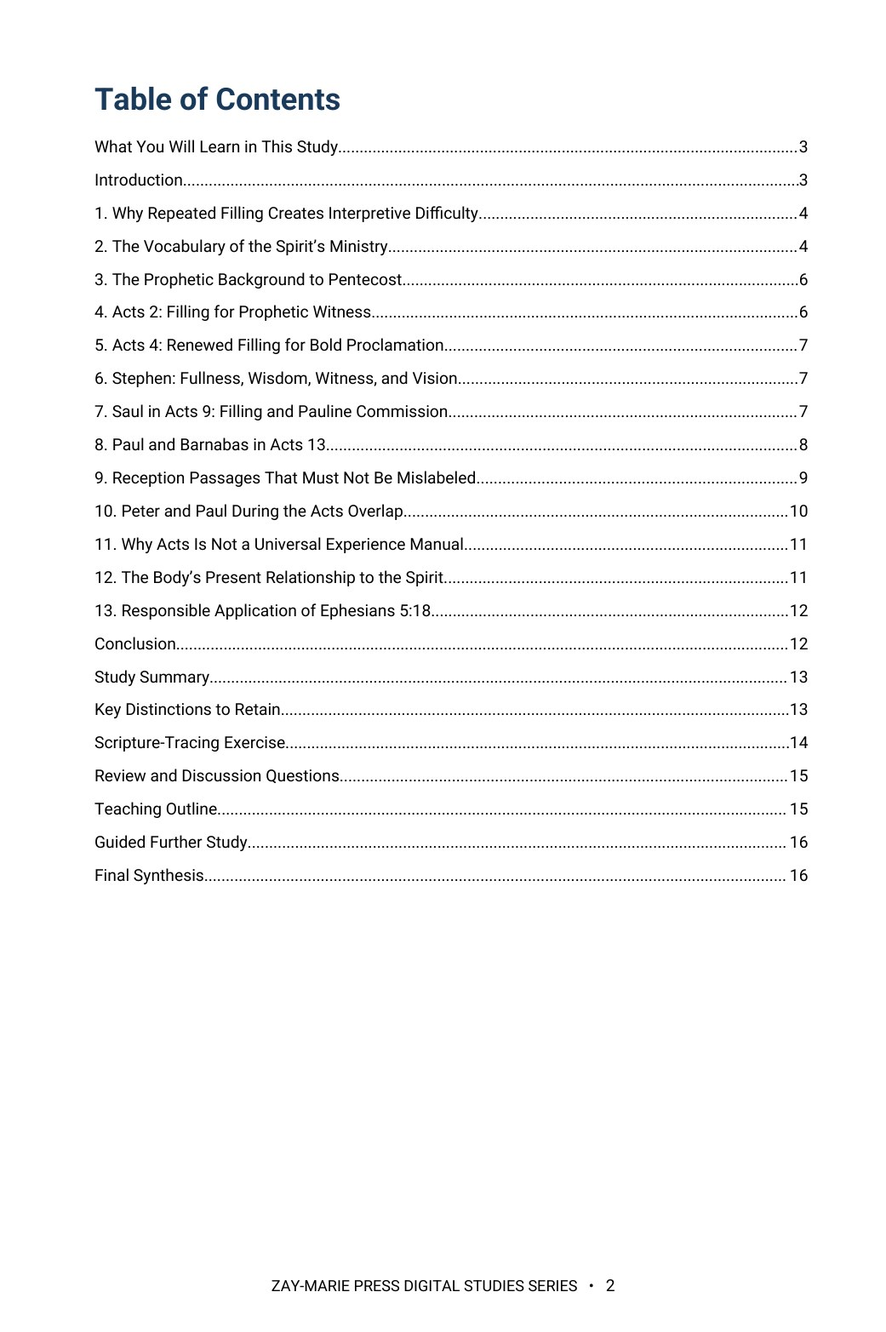
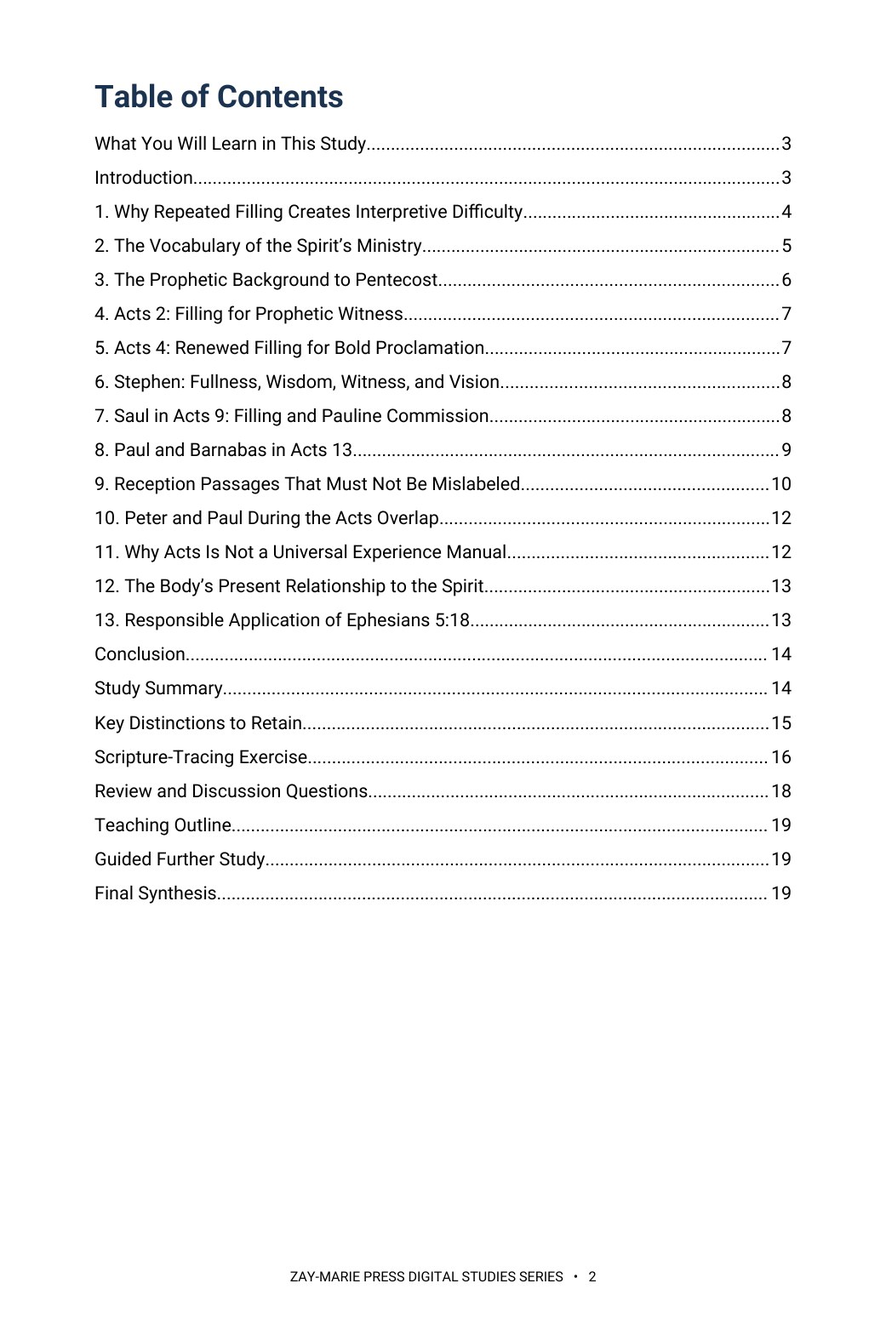
Study 34: page count 20, rebuilt preview pages and trackers for Roboto 10 pt build on current page
Claude-Session: https://claude.ai/code/session_01HC7bs9KYP2scp4hCL6DkTp

diff --git a/study-34-filled-again.html b/study-34-filled-again.html
@@ -3,13 +3,13 @@
 <html lang="en"><head><meta charset="utf-8"><meta name="viewport" content="width=device-width,initial-scale=1"><title>Filled Again | Zay-Marie Press</title><meta name="description" content="Why Acts records believers and apostolic servants being filled with the Holy Spirit more than once, with careful distinctions among filling, reception, indwelling, sealing, identification, and manifestation."><link rel="stylesheet" href="styles.css?v=20260921-4"><link rel="icon" type="image/png" href="assets/zay-marie-press-favicon.png"><style>
 .study-detail-page{background:#fff;color:#252525}.detail-hero{background:linear-gradient(135deg,#f8f5ec,#e3ece2);padding:58px 0}.detail-hero-grid{display:grid;grid-template-columns:minmax(250px,.72fr) minmax(0,1.28fr);gap:58px;align-items:center}.detail-cover{max-width:390px;margin:auto}.detail-cover img{display:block;width:100%;height:auto;box-shadow:0 14px 36px rgba(8,45,69,.18)}.detail-hero h1{font-size:clamp(2.7rem,5vw,4.7rem);line-height:1.02;margin:8px 0 10px;color:#143823}.detail-subtitle{font-family:Georgia,serif;font-size:1.35rem;font-weight:700;color:#082d45;margin:0 0 7px}.detail-kicker{font-family:Georgia,serif;font-style:italic;font-size:1.05rem;color:#4a4a44;margin:0 0 22px}.detail-copy{font-size:1.08rem;line-height:1.65;max-width:760px}.detail-buyline{display:flex;align-items:center;gap:18px;flex-wrap:wrap;margin-top:25px}.detail-price{font-family:Georgia,serif;font-size:2rem;font-weight:700;color:#143823}.detail-format,.preview-card .page-no{font-family:Arial,sans-serif;font-size:.76rem;font-weight:700;letter-spacing:.1em;text-transform:uppercase;color:#176b3a}.detail-button{display:inline-block;background:#176b3a;color:#fff;padding:13px 22px;font-family:Arial,sans-serif;font-size:.8rem;font-weight:700;letter-spacing:.07em;text-transform:uppercase}.detail-button.pending{opacity:.72;cursor:default}.detail-section{padding:66px 0}.detail-section.soft{background:#f6f7f2}.detail-section.cream{background:#faf8f2}.detail-section h2{color:#143823;margin:6px 0 18px;font-size:clamp(2rem,3.4vw,3rem)}.detail-section .lead{max-width:920px;font-size:1.1rem;line-height:1.62}.study-distinction{max-width:920px;margin-top:28px;margin-bottom:28px;padding:26px 28px;background:#fff;border:1px solid #d8d1bf;border-left:4px solid #b8871c}.study-distinction h3{margin:0 0 10px;color:#143823}.study-distinction p{margin:0 0 14px;line-height:1.62}.study-distinction a{font-family:Arial,sans-serif;font-weight:700;color:#176b3a;text-decoration:none}.study-points{display:grid;grid-template-columns:repeat(3,1fr);gap:18px;margin-top:28px;margin-bottom:28px}.study-point,.scripture-card,.preview-card,.include-item{background:#fff;border:1px solid var(--line);text-align:left}.study-point{border-top:3px solid #176b3a;padding:22px}.study-point h3{color:#143823;margin:0 0 8px;font-size:1.2rem}.study-point p,.scripture-card p,.preview-card p,.include-item p{margin:0;line-height:1.55}.scripture-grid{display:grid;grid-template-columns:repeat(4,1fr);gap:14px;margin-top:24px;margin-bottom:24px}.scripture-card{padding:22px 20px;color:#143823}.scripture-card h3{margin:0 0 9px;font-family:Georgia,serif;font-size:1rem;line-height:1.35}.scripture-card p{font-size:.94rem;color:#45453f}.excerpt{max-width:900px;margin:28px auto;border-left:4px solid #b8871c;padding:10px 0 10px 28px}.excerpt blockquote{font-family:Georgia,serif;font-size:clamp(1.45rem,2.5vw,2rem);line-height:1.45;color:#143823;margin:0 0 16px}.excerpt p{line-height:1.6;margin:0}.preview-grid{display:grid;grid-template-columns:repeat(2,1fr);gap:20px;margin-top:28px;margin-bottom:28px}.preview-card{padding:18px;min-height:210px;box-shadow:0 7px 20px rgba(20,40,25,.05)}.preview-image-link{display:block;margin:0 0 18px}.preview-image-link img{display:block;width:100%;height:auto;border:1px solid #d8d1bf;box-shadow:0 8px 22px rgba(20,40,25,.1);transition:transform .18s ease,box-shadow .18s ease}.preview-image-link:hover img{transform:translateY(-2px);box-shadow:0 11px 28px rgba(20,40,25,.16)}.preview-card h3{color:#143823;margin:8px 0 10px}.preview-instruction{margin:10px 0 0;font-family:Arial,sans-serif;font-size:.78rem;letter-spacing:.04em;color:#5b5b55}.includes-grid{display:grid;grid-template-columns:repeat(4,1fr);gap:14px;margin-top:26px}.include-item{padding:22px 20px;color:#143823}.include-item h3{margin:0 0 9px;font-family:Arial,sans-serif;font-size:.86rem;line-height:1.35;letter-spacing:.02em}.include-item p{font-size:.94rem;color:#45453f}.final-buy{background:#082d45;color:#fff;border-top:4px solid #b8871c;padding:42px 48px;display:grid;grid-template-columns:1fr auto;gap:36px;align-items:center}.final-buy .eyebrow,.final-buy h2,.final-buy .detail-price{color:#fff}.final-buy h2{margin:7px 0 6px}.final-buy p{margin:0}.final-offer{text-align:center}.back-link{display:inline-block;margin-top:18px;color:#143823;font-family:Arial,sans-serif;font-weight:700;text-decoration:none}.preview-lightbox{position:fixed;inset:0;z-index:10000;display:none;align-items:flex-start;justify-content:center;background:rgba(8,22,16,.88);padding:24px;overflow:auto}.preview-lightbox.open{display:flex}.preview-lightbox img{display:block;width:auto;height:auto;max-width:none;box-shadow:0 18px 55px rgba(0,0,0,.4);background:#fff}.preview-lightbox-close{position:fixed;top:18px;right:24px;z-index:10001;width:46px;height:46px;border:1px solid rgba(255,255,255,.65);border-radius:50%;background:rgba(0,0,0,.55);color:#fff;font:32px/1 Arial,sans-serif;cursor:pointer}@media(max-width:900px){.detail-hero-grid{grid-template-columns:1fr;gap:34px}.detail-cover{max-width:330px}.study-points{grid-template-columns:repeat(2,1fr)}.scripture-grid,.includes-grid{grid-template-columns:repeat(2,1fr)}.preview-grid,.final-buy{grid-template-columns:1fr}.final-offer{text-align:left}}@media(max-width:560px){.detail-hero{padding:42px 0}.detail-section{padding:50px 0}.study-points,.scripture-grid,.includes-grid{grid-template-columns:1fr}.final-buy{padding:32px 24px}.detail-buyline{align-items:flex-start;flex-direction:column;gap:8px}.preview-lightbox{padding:58px 10px 24px}.preview-lightbox img{width:100%;max-width:100%;height:auto}}</style></head><body class="study-detail-page">
 <header class="site-header"><div class="wrap nav"><a class="logo" href="index.html" aria-label="Zay-Marie Press home"><img src="assets/zay-marie-press-logo-hq.png" alt="Zay-Marie Press" width="420" height="238"></a><button class="menu-toggle" type="button" aria-expanded="false" aria-controls="primary-nav">MENU</button><nav aria-label="Primary navigation" class="primary-nav" id="primary-nav"><a href="index.html">HOME</a><a href="books.html">BOOKS</a><a href="series.html">SERIES</a><a class="active" aria-current="page" href="digital-studies.html">DIGITAL STUDIES</a><a href="biblical-hermeneutics-course.html">COURSE</a><a href="about.html">ABOUT</a><a href="resources.html">RESOURCES</a><a href="contact.html">CONTACT</a></nav></div></header><main>
-<section class="detail-hero"><div class="wrap detail-hero-grid"><div class="detail-cover"><picture><source srcset="assets/study-34-cover.webp" type="image/webp"><picture><source srcset="assets/study-34-cover.webp" type="image/webp"><img src="assets/study-34-cover.jpg" alt="Filled Again cover"></picture></picture></div><div><div class="eyebrow">STUDY 34 · DIGITAL STUDY</div><h1>Filled Again</h1><p class="detail-subtitle">Why the Holy Spirit Empowered God’s Servants Multiple Times in Acts</p><p class="detail-kicker">A passage-controlled study of filling, reception, indwelling, sealing, manifestation, and Spirit-enabled service</p><p class="detail-copy">Why does Acts record believers and apostolic servants being filled with the Holy Spirit more than once? The repeated language does not describe repeated salvation, repeated indwelling, or spiritual failure. It records renewed enablement for particular acts of witness, proclamation, courage, wisdom, judgment, and service.</p><p class="detail-copy">Each occurrence is interpreted according to its named recipients, immediate purpose, revelatory setting, and programmatic assignment. The study preserves the distinction between Peter’s prophetic commission and Paul’s Mystery apostleship during the Acts overlap.</p><div class="detail-buyline"><span class="detail-price">$5.99</span><span class="detail-format">Digital PDF · 16 Pages</span><span class="detail-button pending" aria-disabled="true">Checkout Coming Soon</span></div></div></div></section>
+<section class="detail-hero"><div class="wrap detail-hero-grid"><div class="detail-cover"><picture><source srcset="assets/study-34-cover.webp" type="image/webp"><picture><source srcset="assets/study-34-cover.webp" type="image/webp"><img src="assets/study-34-cover.jpg" alt="Filled Again cover"></picture></picture></div><div><div class="eyebrow">STUDY 34 · DIGITAL STUDY</div><h1>Filled Again</h1><p class="detail-subtitle">Why the Holy Spirit Empowered God’s Servants Multiple Times in Acts</p><p class="detail-kicker">A passage-controlled study of filling, reception, indwelling, sealing, manifestation, and Spirit-enabled service</p><p class="detail-copy">Why does Acts record believers and apostolic servants being filled with the Holy Spirit more than once? The repeated language does not describe repeated salvation, repeated indwelling, or spiritual failure. It records renewed enablement for particular acts of witness, proclamation, courage, wisdom, judgment, and service.</p><p class="detail-copy">Each occurrence is interpreted according to its named recipients, immediate purpose, revelatory setting, and programmatic assignment. The study preserves the distinction between Peter’s prophetic commission and Paul’s Mystery apostleship during the Acts overlap.</p><div class="detail-buyline"><span class="detail-price">$5.99</span><span class="detail-format">Digital PDF · 20 Pages</span><span class="detail-button pending" aria-disabled="true">Checkout Coming Soon</span></div></div></div></section>
 <section class="detail-section"><div class="wrap"><div class="eyebrow">ABOUT THIS STUDY</div><h2>Repeated Filling Is Renewed Enablement</h2><p class="lead">Acts 2 and Acts 4 give the clearest evidence: the same prophetic company is filled more than once, first at Pentecost and later in answer to prayer for boldness. Nothing in the second event suggests another salvation or another permanent indwelling. The Spirit renews enablement for the assignment immediately before them.</p><p class="lead">Other passages require different labels. Some describe an abiding characterization, some the reception or manifestation of the Spirit among distinct groups, and some a particular act of apostolic judgment or witness. Careful interpretation begins by refusing to call every Spirit-related event a filling.</p><p class="lead">This is not a study of Peter’s original Pentecost promise, which Study 20 reads in its own audience and setting, nor of the general test for whether an Acts event obligates the Body today, which Study 38 supplies, nor of the Body’s own settled indwelling by the Spirit, which Study 44 distinguishes from any repeated filling. Its task is narrower: to show, from Acts 2 and Acts 4 themselves, that a second filling of the same praying company renews enablement for an immediate assignment rather than repeating salvation or indwelling.</p><div class="study-distinction"><h3>How These Studies Relate</h3><p>Study 34 explains why apostles could be filled again in Acts 4 without losing and regaining the Spirit.</p><p><a href="study-20-understanding-acts-2-38.html">Study 20 — Understanding Acts 2:38</a> Read Peter’s earlier Pentecost promise and his audience first; this distinguishes initial Spirit reception from the later renewed enablement recorded in Acts 4.</p><p><a href="study-38-why-acts-is-not-a-universal-experience-manual.html">Study 38 — Why Acts Is Not a Universal Experience Manual</a> Apply the Acts-reading test to repeated filling; it clarifies what a historical event teaches without making each occurrence a universal required sequence.</p><p><a href="study-44-walking-in-the-spirit.html">Study 44 — Walking in the Spirit</a> Distinguish these renewed, repeated Acts-era fillings from the Body's settled, once-for-all indwelling ministry of the Spirit that this study examines.</p><p class="connection-guide-link"><a href="study-connections.html#study-34">Explore the full connection guide for Study 34 →</a></p></div></div></section>
 <section class="detail-section soft"><div class="wrap"><div class="eyebrow">WHAT YOU’LL STUDY</div><h2>Distinguish the Spirit’s Ministries Before Applying Them</h2><div class="study-points"><div class="study-point"><h3>Prophetic Promise</h3><p>Trace the promised outpouring behind Pentecost without importing later Pauline doctrine into the prophetic setting.</p></div><div class="study-point"><h3>Receiving and Filling</h3><p>Separate receiving the Spirit from renewed enablement for a named act of witness or service.</p></div><div class="study-point"><h3>Fullness as Character</h3><p>Recognize when “full of the Holy Spirit” describes an abiding qualification or spiritual characterization.</p></div><div class="study-point"><h3>Identification and Sealing</h3><p>Distinguish Spirit baptism, indwelling, and Pauline sealing from narrative manifestations in Acts.</p></div><div class="study-point"><h3>Signs During the Overlap</h3><p>Place tongues, visions, and apostolic signs within their immediate setting and assigned apostolic line.</p></div><div class="study-point"><h3>Present Application</h3><p>Trace how Ephesians 1:13–14, 4:30, and 5:18 state the Body’s standing and the command to be filled, and how the two relate.</p></div></div></div></section>
 <section class="detail-section cream"><div class="wrap"><div class="eyebrow">KEY SCRIPTURES</div><h2>Follow Each Passage by Recipient, Purpose, and Setting</h2><div class="scripture-grid"><div class="scripture-card"><h3>Acts 2:4</h3><p>The prophetic company is filled and speaks in other tongues at Pentecost.</p></div><div class="scripture-card"><h3>Acts 4:8, 31</h3><p>Peter speaks before the rulers, and the gathered company receives renewed boldness.</p></div><div class="scripture-card"><h3>Acts 6:3, 5; 7:55</h3><p>Stephen’s fullness marks qualification, wisdom, witness, and vision.</p></div><div class="scripture-card"><h3>Acts 9:17</h3><p>Saul is filled in connection with his healing and Pauline commission.</p></div><div class="scripture-card"><h3>Acts 13:9</h3><p>Paul confronts Elymas under Spirit-enabled apostolic judgment.</p></div><div class="scripture-card"><h3>Acts 13:52</h3><p>The disciples are filled with joy and with the Holy Spirit amid opposition.</p></div><div class="scripture-card"><h3>Acts 8, 10, 19</h3><p>Reception and manifestation passages involving distinct groups and settings.</p></div><div class="scripture-card"><h3>Ephesians 5:18</h3><p>The Body is commanded to pursue an ongoing Spirit-governed walk.</p></div></div></div></section>
 <section class="detail-section"><div class="wrap"><div class="eyebrow">FROM THE STUDY</div><h2>The Text Must Name the Spirit’s Ministry</h2><div class="excerpt"><blockquote>“Repeated filling in Acts is renewed enablement for a particular assignment—not repeated salvation, indwelling, or sealing.”</blockquote><p>Recipients, immediate purpose, revelatory setting, and programmatic assignment keep narrative description from being turned into a universal experience manual.</p></div></div></section>
-<section class="detail-section soft"><div class="wrap"><div class="eyebrow">A LOOK INSIDE</div><h2>Preview the Study Before You Purchase</h2><p class="preview-instruction">Click any page to enlarge it for reading.</p><div class="preview-grid"><div class="preview-card"><a class="preview-image-link" data-preview-lightbox href="assets/study-34-page-2.jpg"><img src="assets/study-34-page-2.jpg" alt="Study 34 interior preview — page 2, table of contents"></a><div class="page-no">Page 2</div><h3>Table of Contents</h3><p>See how the study moves from the interpretive problem through each Acts passage to the Body’s present standing.</p></div><div class="preview-card"><a class="preview-image-link" data-preview-lightbox href="assets/study-34-page-3.jpg"><img src="assets/study-34-page-3.jpg" alt="Study 34 interior preview — page 3, What You Will Learn and Study Goal"></a><div class="page-no">Page 3</div><h3>What You Will Learn</h3><p>Begin with the skills you will practice in distinguishing each Spirit-related event by its own wording.</p></div><div class="preview-card"><a class="preview-image-link" data-preview-lightbox href="assets/study-34-page-5.jpg"><img src="assets/study-34-page-5.jpg" alt="Study 34 interior preview — page 5, the vocabulary of the Spirit’s ministry"></a><div class="page-no">Page 5</div><h3>The Vocabulary of the Spirit’s Ministry</h3><p>Set the terms side by side, each with the control that keeps it from being confused with the others.</p></div></div></div></section>
-<section class="detail-section"><div class="wrap"><div class="eyebrow">WHAT’S INCLUDED</div><h2>A Focused Study Built for<br>Doctrinal Precision and Responsible Application</h2><div class="includes-grid"><div class="include-item"><h3>16-Page Biblical Study</h3><p>A substantive treatment of repeated filling and the Spirit’s distinct ministries in Acts.</p></div><div class="include-item"><h3>Thirteen Teaching Sections</h3><p>Move from vocabulary and prophetic background through the Acts overlap to present application.</p></div><div class="include-item"><h3>Passage Classification</h3><p>Identify momentary filling, abiding characterization, reception, manifestation, and other Spirit ministries.</p></div><div class="include-item"><h3>High-Contrast Tables</h3><p>Compare recipients, settings, purposes, apostolic lines, and warranted conclusions clearly.</p></div><div class="include-item"><h3>Scripture-Tracing Exercise</h3><p>Work through the principal filling, reception, manifestation, sealing, and application passages.</p></div><div class="include-item"><h3>Review Questions</h3><p>Test your ability to distinguish narrative events from present governing doctrine.</p></div><div class="include-item"><h3>Teaching Outline</h3><p>Use a ready framework for teaching repeated filling without collapsing distinct ministries.</p></div><div class="include-item"><h3>Guided Further Study</h3><p>Grouped passages support continued study of prophecy, the overlap, and Pauline doctrine.</p></div></div></div></section>
-<section class="detail-section cream"><div class="wrap"><div class="final-buy"><div><div class="eyebrow">STUDY 34 · DIGITAL STUDY</div><h2>Filled Again</h2><p>Digital PDF · 16 Pages · For personal use</p></div><div class="final-offer"><div class="detail-price">$5.99</div><span class="detail-button pending" aria-disabled="true">Checkout Coming Soon</span></div></div><a class="back-link" href="digital-studies.html">← Back to All Digital Studies</a></div></section><section class="study-method-course-bridge"><div class="wrap"><div class="study-method-course-panel"><div><div class="eyebrow">BUILD THE INTERPRETIVE METHOD</div><h2>Want More Than a Focused Study?</h2><p>Digital Studies examine particular biblical subjects and difficult passages. The 40-lesson Biblical Hermeneutics course teaches a complete, repeatable method for establishing meaning in context, determining proper assignment, and making responsible application.</p></div><a class="btn btn-primary" href="biblical-hermeneutics-course.html">BIBLICAL HERMENEUTICS COURSE</a></div></div></section></main>
+<section class="detail-section soft"><div class="wrap"><div class="eyebrow">A LOOK INSIDE</div><h2>Preview the Study Before You Purchase</h2><p class="preview-instruction">Click any page to enlarge it for reading.</p><div class="preview-grid"><div class="preview-card"><a class="preview-image-link" data-preview-lightbox href="assets/study-34-page-2.jpg"><img src="assets/study-34-page-2.jpg" alt="Study 34 interior preview — page 2, table of contents"></a><div class="page-no">Page 2</div><h3>Table of Contents</h3><p>See how the study moves from the interpretive problem through each Acts passage to the Body’s present standing.</p></div><div class="preview-card"><a class="preview-image-link" data-preview-lightbox href="assets/study-34-page-3.jpg"><img src="assets/study-34-page-3.jpg" alt="Study 34 interior preview — page 3, What You Will Learn and Study Goal"></a><div class="page-no">Page 3</div><h3>What You Will Learn</h3><p>Begin with the skills you will practice in distinguishing each Spirit-related event by its own wording.</p></div><div class="preview-card"><a class="preview-image-link" data-preview-lightbox href="assets/study-34-page-6.jpg"><img src="assets/study-34-page-6.jpg" alt="Study 34 interior preview — page 6, the vocabulary of the Spirit’s ministry"></a><div class="page-no">Page 6</div><h3>The Vocabulary of the Spirit’s Ministry</h3><p>Set the terms side by side, each with the control that keeps it from being confused with the others.</p></div></div></div></section>
+<section class="detail-section"><div class="wrap"><div class="eyebrow">WHAT’S INCLUDED</div><h2>A Focused Study Built for<br>Doctrinal Precision and Responsible Application</h2><div class="includes-grid"><div class="include-item"><h3>20-Page Biblical Study</h3><p>A substantive treatment of repeated filling and the Spirit’s distinct ministries in Acts.</p></div><div class="include-item"><h3>Thirteen Teaching Sections</h3><p>Move from vocabulary and prophetic background through the Acts overlap to present application.</p></div><div class="include-item"><h3>Passage Classification</h3><p>Identify momentary filling, abiding characterization, reception, manifestation, and other Spirit ministries.</p></div><div class="include-item"><h3>High-Contrast Tables</h3><p>Compare recipients, settings, purposes, apostolic lines, and warranted conclusions clearly.</p></div><div class="include-item"><h3>Scripture-Tracing Exercise</h3><p>Work through the principal filling, reception, manifestation, sealing, and application passages.</p></div><div class="include-item"><h3>Review Questions</h3><p>Test your ability to distinguish narrative events from present governing doctrine.</p></div><div class="include-item"><h3>Teaching Outline</h3><p>Use a ready framework for teaching repeated filling without collapsing distinct ministries.</p></div><div class="include-item"><h3>Guided Further Study</h3><p>Grouped passages support continued study of prophecy, the overlap, and Pauline doctrine.</p></div></div></div></section>
+<section class="detail-section cream"><div class="wrap"><div class="final-buy"><div><div class="eyebrow">STUDY 34 · DIGITAL STUDY</div><h2>Filled Again</h2><p>Digital PDF · 20 Pages · For personal use</p></div><div class="final-offer"><div class="detail-price">$5.99</div><span class="detail-button pending" aria-disabled="true">Checkout Coming Soon</span></div></div><a class="back-link" href="digital-studies.html">← Back to All Digital Studies</a></div></section><section class="study-method-course-bridge"><div class="wrap"><div class="study-method-course-panel"><div><div class="eyebrow">BUILD THE INTERPRETIVE METHOD</div><h2>Want More Than a Focused Study?</h2><p>Digital Studies examine particular biblical subjects and difficult passages. The 40-lesson Biblical Hermeneutics course teaches a complete, repeatable method for establishing meaning in context, determining proper assignment, and making responsible application.</p></div><a class="btn btn-primary" href="biblical-hermeneutics-course.html">BIBLICAL HERMENEUTICS COURSE</a></div></div></section></main>
 <div class="preview-lightbox" id="preview-lightbox" role="dialog" aria-modal="true" aria-label="Expanded study preview"><button class="preview-lightbox-close" type="button" aria-label="Close preview">×</button><img id="preview-lightbox-image" alt=""></div><footer class="site-footer"><div class="wrap footer-grid"><div class="footer-about"><h3>Zay-Marie Press</h3><p class="footer-tagline"><em>Where the Bible Means What It Says.</em></p><p>Zay-Marie Press is a Christian theological publisher dedicated to producing doctrinally precise, carefully structured biblical resources that equip pastors, teachers, and serious students with clarity, depth, and Scripture-anchored truth.</p><p><a href="https://zaymariepress.com">zaymariepress.com</a><br><a href="mailto:info@zaymariepress.com">info@zaymariepress.com</a></p></div><div class="footer-column"><h3>Explore</h3><div class="footer-links-stacked"><a href="books.html">Books</a><br><a href="series.html">Series</a><br><a href="biblical-hermeneutics-course.html">Course</a><br><a href="digital-studies.html">Digital Studies</a><br><a href="resources.html">Resources</a><br><a href="bible-book-summaries.html">Bible Book Summaries</a><br><a href="doctrinal-packets.html">Doctrinal Packets</a><br><a href="historical-drift.html">Historical Drift</a><br><a href="about.html">About</a><br><a href="contact.html">Contact</a></div></div><div class="footer-column"><h3>Reader Support</h3><div class="footer-links-stacked"><a href="reader-support.html#faq">FAQ</a><br><a href="reader-support.html#shipping-returns">Shipping &amp; Returns</a><br><a href="reader-support.html#digital-downloads">Digital Downloads</a><br><a href="reader-support.html#contact-support">Contact Support</a></div></div><div class="footer-column"><h3>Acts Overlap</h3><p><strong>Acts Overlap Theology Series</strong></p><p><em>Two Distinct Streams. One Overlap.</em></p><p><a href="series.html">Series Overview</a></p></div></div><div class="wrap footer-bottom">© 2026 Zay-Marie Press. All rights reserved.</div></footer><script src="site.js"></script><script>const lightbox=document.getElementById('preview-lightbox'),lightboxImage=document.getElementById('preview-lightbox-image'),closeLightbox=()=>{lightbox.classList.remove('open');lightboxImage.src='';};document.querySelectorAll('[data-preview-lightbox]').forEach(link=>link.addEventListener('click',event=>{event.preventDefault();lightboxImage.src=link.href;lightboxImage.alt=link.querySelector('img').alt;lightbox.classList.add('open');}));document.querySelector('.preview-lightbox-close').addEventListener('click',closeLightbox);lightbox.addEventListener('click',event=>{if(event.target===lightbox)closeLightbox();});document.addEventListener('keydown',event=>{if(event.key==='Escape')closeLightbox();});</script><script type="module" src="https://static.cloudflareinsights.com/beacon.min.js/v31edd6df95cf4e85bb4c19e7a9bdbcba1788362987495" integrity="sha512-iIg7k2xntmwu6/uSb5tpc/hySgZc4eoL31yB29W6tJFo2akwjPWcEqnCEdJvGexCL0KEQwVYv5BlowfhVz26hg==" data-cf-beacon='{"version":"2024.11.0","token":"4badd691d9c04f819c55899bff00fd5c","r":1,"spa":2}' crossorigin="anonymous"></script>
 </body></html>

diff --git a/site.js b/site.js
@@ -62,7 +62,7 @@ const resourceModal=document.querySelector('#resource-modal'), resourceModalTitl
 if(resourceModal&&resourceModalTriggers.length){const closeResourceModal=()=>{resourceModal.hidden=true;document.body.classList.remove('resource-modal-open');lastResourceTrigger?.focus();};resourceModalTriggers.forEach(trigger=>trigger.addEventListener('click',()=>{lastResourceTrigger=trigger;if(resourceModalTitle)resourceModalTitle.textContent=trigger.dataset.title||'Resource';if(resourceModalDescription)resourceModalDescription.textContent=trigger.dataset.description||'';if(resourceModalLink){resourceModalLink.href=trigger.dataset.href||'#';resourceModalLink.textContent=trigger.dataset.linkText||'OPEN RESOURCE';}resourceModal.hidden=false;document.body.classList.add('resource-modal-open');resourceModalClose?.focus();}));resourceModalClose?.addEventListener('click',closeResourceModal);resourceModal.addEventListener('click',e=>{if(e.target===resourceModal)closeResourceModal();});document.addEventListener('keydown',e=>{if(e.key==='Escape'&&!resourceModal.hidden)closeResourceModal();});}
 
 /* Display the verified final-PDF page count at the primary purchase decision point. */
-const digitalStudyPageCounts={1:17,2:19,3:16,4:17,5:15,6:15,7:14,8:13,9:15,10:20,11:15,12:15,13:18,14:15,15:15,16:16,17:17,18:18,19:16,20:15,21:16,22:15,23:14,24:16,25:17,26:16,27:16,28:17,29:19,30:18,31:18,32:19,33:18,34:16,35:16,36:16,37:16,38:16,39:16,40:16,41:16,42:17,43:17,44:19,45:19,46:20,47:19,48:18,49:20,50:19,51:20,52:19,53:19,54:17,55:20,56:20,57:20,58:19,59:20,60:15,61:16,62:18,63:17,64:17,65:16,66:16,67:17,68:16,69:17,70:17,71:16};
+const digitalStudyPageCounts={1:17,2:19,3:16,4:17,5:15,6:15,7:14,8:13,9:15,10:20,11:15,12:15,13:18,14:15,15:15,16:16,17:17,18:18,19:16,20:15,21:16,22:15,23:14,24:16,25:17,26:16,27:16,28:17,29:19,30:18,31:18,32:19,33:18,34:20,35:16,36:16,37:16,38:16,39:16,40:16,41:16,42:17,43:17,44:19,45:19,46:20,47:19,48:18,49:20,50:19,51:20,52:19,53:19,54:17,55:20,56:20,57:20,58:19,59:20,60:15,61:16,62:18,63:17,64:17,65:16,66:16,67:17,68:16,69:17,70:17,71:16};
 const digitalStudyMatch=window.location.pathname.match(/\/study-(\d+)-/i);
 const digitalStudyFormat=document.querySelector('.detail-hero .detail-format');
 if(digitalStudyMatch&&digitalStudyFormat){const studyNumber=Number(digitalStudyMatch[1]),pageCount=digitalStudyPageCounts[studyNumber];if(pageCount)digitalStudyFormat.textContent=`Digital PDF · ${pageCount} Pages`;}

diff --git a/CLAUDE.md b/CLAUDE.md
@@ -23,7 +23,7 @@ These are kept in the repo at `controlling-documents/` and are the current versi
 - As of v1.50 (publisher directive, 2026-10-03), the **What You Will Learn in This Study** section is always bulleted, never set as running paragraphs, written into this file in the same pass (Master Standard Section 3 item 4, Section 6 structure line, Section 22): a list of bullet points, each describing one process, textual marker or interpretive discipline the reader will practice (Section 17 still governs what they may say); at most one short lead-in line may stand above the bullets (for example, “By the end of this study, you should be able to:”); the Study Goal callout and the Study Outline keep their own forms. It governs every new study and every study rebuilt or retrofitted from now on; earlier studies take it when reopened or when the publisher directs. In every study check (Step 1), report whether the section is bulleted. First applied to Study 43.
 **`controlling-documents/Digital_Studies_Relationship_Map_v1.39.md`** — records each study's distinct subject, its related studies, the eight priced six-study collections, the Paul's Missionary Journeys cross-reference map, and the five primary catalog categories (currently version 1.39, covers Studies 1–71; update it as new studies publish, bump the version number, rename the file to match, and log the change in its own version-history table — mirroring the Master Standard's `_vX.Y` filename convention). Check a proposed topic against it before recommending or writing a new study. (2026-09-28: the file was missing from this repo despite this note referencing it; replaced from the publisher's copy and bumped v1.15→v1.25 in the same pass. If this note ever again points to a version not present under `controlling-documents/`, ask the publisher for a copy rather than proceeding without the check.)
 - **`controlling-documents/Digital_Studies_Category_Standard_v1.1.md`** — FINAL and binding (publisher, 2026-10-01): the rules for the five primary catalog categories (Foundations, Israel & Prophecy, Body of Christ, Passages, Doctrinal Themes), the ordered decision procedure for new studies, the precedents, all 71 fixed assignments, and the cover-label form for each category. Read it before placing any card or cover label. Do not ask the publisher where a study belongs; apply the procedure and state the result. Only the publisher changes a ruling; then bump this Standard's version and filename, re-letter the cover, and update the Relationship Map.
-- **`controlling-documents/Doctrinal_Upgrade_Retrofit_Plan_v1.112.md`** — working tracker for retrofitting Studies 1–59 to the 2026-10-02 doctrinal upgrade (Framework/PAM v1.1, Master Standard v1.40, Rules 7–17): withdrawn-wording search keys, impact tiers, waves and the per-study method. Read it before continuing the retrofit in any session; update status, bump the version and rename the file as work proceeds.
+- **`controlling-documents/Doctrinal_Upgrade_Retrofit_Plan_v1.113.md`** — working tracker for retrofitting Studies 1–59 to the 2026-10-02 doctrinal upgrade (Framework/PAM v1.1, Master Standard v1.40, Rules 7–17): withdrawn-wording search keys, impact tiers, waves and the per-study method. Read it before continuing the retrofit in any session; update status, bump the version and rename the file as work proceeds.
 - **`controlling-documents/Doctrinal_Packet_Standard_v0.3.md`** — Doctrinal Packet Standard (DRAFT; §7 approved). Governs the separate Doctrinal Packets product strand (5-page interpretive PDFs per Bible book — a print-friendly cover as page 1 plus 4 content pages, $2.99, KJV, pilot: Genesis, live at `packet-genesis.html`, hub `doctrinal-packets.html`; site pages say "5 Pages", cover styles live in `packets.css`, Old Testament blue and New Testament soft pale green, hub listed in Bible order). **Preview rule (publisher directive, 2026-09-29, packets only):** previews show about one page's worth in two cropped views (top of page 1 through the anchor texts; the chart section) — never the exegesis, architecture, Mystery contrast, logic chain, outline, or closing. Master Standard §16/§17 still govern Digital Studies. Bump the version and rename the file as the Standard is finalized.
 - **`controlling-documents/Preview_Page_Spoiler_Retrofit_Audit_v1.4.md`** — working tracker for the Studies 1–60 preview-page conclusion-spoiler retrofit (see the section below). Read it before continuing that audit in any session; update its status fields and changelog, bump the version, and rename the file to match as the audit proceeds — same `_vX.Y` convention as the other controlling documents. As of v1.1, the website-side half was DONE: all 60 studies' "What You'll Study" text was judged against the rule (methodology documented in the file) and 22 points across 11 studies were rewritten and pushed; an unrelated Study 22 content bug (Study 21's content had leaked into it) was also found and fixed. As of v1.2, the publisher supplied Studies 1–60's interior production PDFs and the interior-PDF half was also surveyed (read-only): 10 studies (37, 41, 45, 47, 48, 49, 51, 52, 53, 54) were found to have at least one interior "What You Will Learn" violation, 50 studies were confirmed compliant, and the orphaned `assets/study-45-sanctification-under-grace.docx` (removed from the repo per the publisher in v1.0) was confirmed word-for-word identical to Study 45's actual production interior PDF content. As of v1.3, the publisher supplied editable DOCX sources for all 10 violating studies; all 15 violating points were rewritten and approved, delivered as corrected final PDFs, and — along the way — a second defect was found and fixed (Studies 47 and 48's source DOCX still had an unintegrated cover placeholder despite both being long-published live with real covers; fixed by inserting the existing approved cover art). The website's "What You Will Learn" preview image (`study-NN-page-3.jpg`) was regenerated from the corrected content for all 10 studies and pushed to `main` (commit `cea1859`), verified against a fresh clone. **The website side of this audit is now fully compliant for all 60 studies.** Outstanding: the publisher's purchasable interior PDF files themselves have corrected versions delivered, but distribution to existing purchasers was decided by the publisher on 2026-09-29: silent swap of the files behind the existing downloads, no reissue notice (recorded in the v1.4 changelog entry; the product files are not in this repo).
 

diff --git a/controlling-documents/Doctrinal_Upgrade_Retrofit_Plan_v1.113.md b/controlling-documents/Doctrinal_Upgrade_Retrofit_Plan_v1.113.md
@@ -205,3 +205,4 @@ Working tracker for correcting published studies to the Framework/PAM v1.1, Mast
 - v1.110 (2026-10-04): Study 27 rebuilt in Roboto at 10 pt on the current page, 16 pages (unchanged from the old 432×648 build). WYWL lead-in standardized (eight bullets already process lines, kept); 'revealed framework' reworded; Acts 28 wording conformed (nationally suspended—not canceled, transferred or absorbed); overlap and Rule 17 sentences added after the Pentecost paragraph; reader-facing Hebrews sentence added after the Day of Atonement/Hebrews paragraph; Teaching Outline numbered.
 - v1.111 (2026-10-04): Study 28 rebuilt in Roboto at 10 pt on the current page, 17 pages (was 16 on the old 432×648 page). WYWL lead-in standardized (ten bullets already process lines, kept); three 'Framework' references removed (Hebrews sentence now the reader-facing covenant sentence; 'which the Framework locates in the Mystery' now 'which belongs to the Mystery'); 'Acts Overlap framework' reworded; withdrawn 'finished work … only/sole ground' wording in the Introduction and section 14 replaced with Rule 19 wording (publisher-approved); overlap and Rule 17 sentences added in section 14; Teaching Outline numbered.
 - v1.112 (2026-10-04): Study 30 rebuilt in Roboto at 10 pt on the current page, 18 pages (was 17 on the old 432×648 page). WYWL lead-in standardized (seven bullets already process lines, kept); 'The controlling Framework…/the Framework's doctrinal position' reworded to study-owned wording; Acts 28 wording conformed (nationally suspended—not canceled, transferred or absorbed); overlap and Rule 17 sentences added; duplicated 1 Corinthians 3:8–15 paragraph removed; Teaching Outline numbered.
+- v1.113 (2026-10-04): Study 34 rebuilt in Roboto at 10 pt on the current page, 20 pages (was 16 on the old 432×648 page). WYWL intro paragraph above the lead-in removed (seven process bullets and the passage line kept); 'read as the Framework assigns them' (table cell) reworded to 'read in their own audience and setting'; overlap, Rule 17, Rule 11 and Rule 18 short-form sentences added in section 7; Acts 28 wording conformed with the suspension-boundary sentence; Teaching Outline numbered. Note: Step 1 grep had missed table cells; table cells are now included in the internal-term check. Preview 3 moved from page 5 to page 6 (the vocabulary table).

diff --git a/controlling-documents/Digital_Studies_PAM_Audit_v1.207.md b/controlling-documents/Digital_Studies_PAM_Audit_v1.207.md
@@ -436,3 +436,4 @@ Study 15 PDF not yet supplied. Typography: none of Studies 2, 3, 6, 8 is in EB G
 - v1.204 (2026-10-04): Study 27 rebuilt in Roboto at 10 pt on the current page, 16 pages; Acts 28 wording conformed; overlap, Rule 17 and Hebrews sentences added; Teaching Outline numbered (see Retrofit Plan v1.110).
 - v1.205 (2026-10-04): Study 28 rebuilt in Roboto at 10 pt on the current page, 17 pages; withdrawn finished-work shared-ground wording replaced with Rule 19; Framework wording removed; overlap and Rule 17 sentences added; Teaching Outline numbered (see Retrofit Plan v1.111).
 - v1.206 (2026-10-04): Study 30 rebuilt in Roboto at 10 pt on the current page, 18 pages; Framework wording removed; Acts 28 wording conformed; overlap and Rule 17 sentences added; duplicate paragraph removed; Teaching Outline numbered (see Retrofit Plan v1.112).
+- v1.207 (2026-10-04): Study 34 rebuilt in Roboto at 10 pt on the current page, 20 pages; Framework wording removed (table cell); overlap, Rule 17, Rule 11 and Rule 18 short-form sentences added; Acts 28 wording conformed; Teaching Outline numbered (see Retrofit Plan v1.113).
